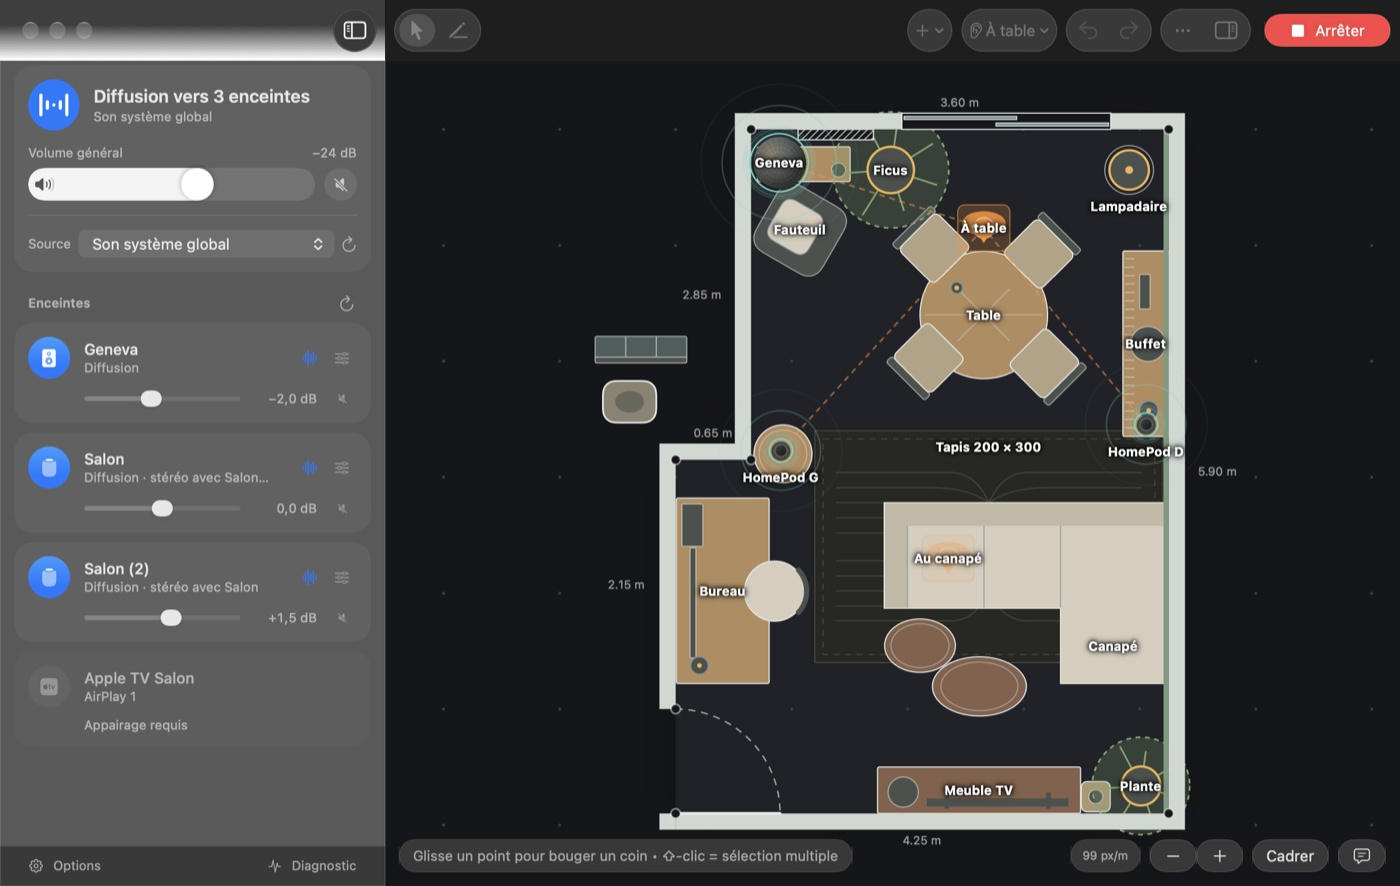
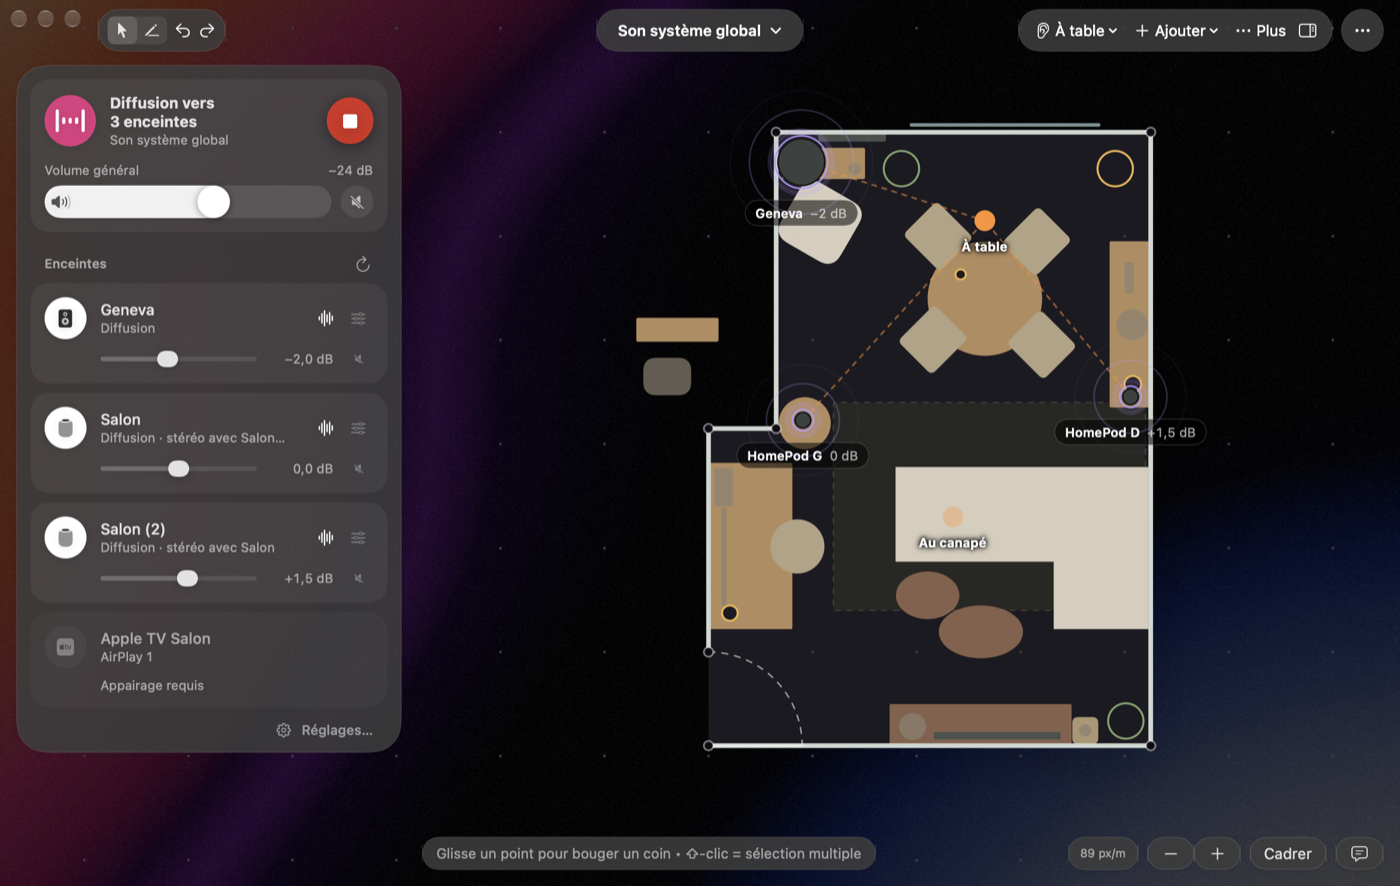
docs: record the textures, hiding and Settings window work
Close the textures session in the project memory: what the background,
the glass sphere, the hide command and the Settings window are, how each
was proven, and what nobody has seen yet. The installed app was streaming
when the work was merged, so nothing here is installed.

CLAUDE.md gains the durable facts: the background is animated by Core
Animation from precomputed keyframes, SwiftPM does not compile Metal
shaders on this machine, no Grainient image may enter the repository, the
sphere textures must be baked off the main thread, and the timed quit
tests still fail when the Mac is busy. The README describes the three
views and shows fresh renders.

diff --git a/PROGRESS.md b/PROGRESS.md
@@ -18,7 +18,7 @@ fin, donnent le niveau de preuve de chaque point. L'Apple TV n'a jamais joué en
 |---|---|
 | **Dernier jalon terminé** | **Jalon 5 — intégration et interface, clos le 2026-11-02 sur le vrai matériel** |
 | **Jalon en cours** | Suite du jalon 5, ouverte le 2026-11-09 (`docs/prompt_video_dia_airfoil.md`, `docs/prompt_retard_2s.md`) : calage vidéo, retard réduit à ~0,45 s, refonte Liquid Glass. **Pas encore close** |
-| **Étape suivante** | Avec Baptiste : juger la nouvelle fenêtre dans l'app ; endurance et clics à 0,4 s ; non-régression du calage vidéo (phase 1.5) ; points ouverts de la phase 3 ; puis clôture (phase 4) |
+| **Étape suivante** | Avec Baptiste : installer et juger les textures, le masquage et les Réglages (dernière section) ; juger la nouvelle fenêtre dans l'app ; endurance et clics à 0,4 s ; non-régression du calage vidéo (phase 1.5) ; points ouverts de la phase 3 ; puis clôture (phase 4) |
 | **Dépôt** | `github.com/Erkin0xx/AirplayPersonalBridge`, branche `main` |
 
 **L'app diffuse depuis la barre de menus vers N enceintes en parallèle**, ce qui est l'objectif
@@ -1282,3 +1282,40 @@ rendu plus lent encore : la mutation « relance bornée par la part des sorties 
 - **Phase 1.5** : non-régression aux clics, option vidéo active puis inactive. Safari, QuickTime et Firefox avec le pilote.
 - **Phase 3** : paire cochée en décalé et ouverte d'un geste, à l'oreille ; basses et aigus, volumes séparés de la paire, touches du
   Mac en vraie diffusion, icône animée, ligne d'application attendue, à l'écran ; pannes provoquées ; tour de l'app ; canapé.
+
+### Après la clôture : textures, masquage, fenêtre Réglages (2026-11-10, soir)
+
+Demande de Baptiste (`docs/prompt_textures_grainient.md`) : le fond dans le style *shadeshifter-05* de Grainient, la sphère
+et l'anneau du volume dans celui de *Nova*, un bouton pour masquer une enceinte ou un élément, réactivable depuis une page
+de réglages. Mené par quatre sous-agents (recherche, fond, sphère, masquage) et un cinquième pour des maquettes. Niveaux de
+preuve : **test**, **rendu** (hors écran, regardé par la session), **mesuré**, **vu** (Baptiste, dans l'app).
+
+**Rien de ce qui suit n'a été vu par Baptiste, et l'app installée ne l'a pas** : elle diffusait au moment d'installer
+(quatre sockets UDP ouverts), et une installation coupe le son. À installer par `scripts/install-app.sh --open`, diffusion
+arrêtée.
+
+| Ce qui est fait | Preuve |
+|---|---|
+| **Recherche** : aucune des trois références n'a de grain visible (résidu 0,2 à 0,8/255) ; palettes échantillonnées ; licence de Grainient relevée (usage personnel permis, redistribution interdite, images très probablement payantes) | lecture des pages et des images, 2026-11-10. **Aucune image de Grainient dans le dépôt** : tout est reproduit par le code |
+| **Fond** (`GrainientBackground`) : rampe en bandes obliques dans la palette de l'app, nappe bleue en bas à droite, grain fin fixe ; cycle de 54 s ; plus sombre et immobile au repos ; arrêté fenêtre à l'arrière-plan ou sous « Réduire les animations » | test (20 tests : couture du cycle, contraste du texte blanc ≥ 4,5, pause et reprise ; 5 mutations tuées), rendu. **Le mouvement n'a été vu par personne** |
+| **Coût du fond** : animation confiée à Core Animation (36 images-clés de 160×100, fondu sur `contents`), l'app ne se réveille pas | **mesuré**, process seul, fenêtre non composée (écran verrouillé) : 0,248 % contre 0,249 % pour une fenêtre vide, et 109 % pour l'ancien `Canvas` à 20 images/s. **Le serveur de fenêtres n'est pas mesuré**, ni le coût fenêtre visible |
+| **Sphère et anneau** (`NovaGlass`) : bille de verre presque noir aux reflets roses et bleus, filets fins, éclat orange ; grise et immobile au repos ; anneau en tube blanc bleuté sur piste sombre, prise en perle, sans rose | test (14 tests : couture, bornes, contraste du logo ≥ 4,5 sur tout le cycle ; 4 mutations tuées), rendu (gros plans, 8 instants du cycle). Mouvement, survol et saisie **non vus** ; coût dans une vraie fenêtre **non mesurable** ici (la sonde tourne à 100 % d'un cœur avec l'ancienne sphère comme avec la nouvelle) |
+| **Cuisson des textures hors du fil principal** : cuites au premier dessin, elles figeaient la fenêtre (1 s en debug) et le MainActor des tests | **mesuré** : 0,995 s de cuisson en debug ; trouvé à la fusion, la suite passant de verte à 2 échecs sur 5 |
+| **Masquer** (`HiddenElements`) : clic droit ou œil barré au survol sur chaque enceinte des trois vues ; l'enceinte disparaît aussi du panneau ; purement visuel, elle continue de jouer ; la paire stéréo se masque d'un bloc ; ligne « 1 enceinte masquée » qui ouvre les Réglages ; trois blocs masquables (ondes du Halo, volume général, lieu d'écoute de la Console) ; persisté dans `settings.json` | test (24 tests, 5 mutations tuées), rendu. **Survol et clic droit jamais essayés** |
+| **Fenêtre Réglages** (scène `Settings`, ⌘,) : vue de la fenêtre, enceintes affichées, éléments affichés ; ouverte depuis le bouton « … », le panneau des enceintes du Plan et le panneau de la barre de menus | `xcodebuild` Debug réussi, rendu de la vue seule. **Jamais ouverte pour de vrai** : le cas à essayer d'abord est le panneau, fenêtre principale fermée |
+| **Maquettes de curseurs** pour la Console (demande § 3.D) : trois variantes (verre Nova, Darkshells, grain), layout intact, sur `claude.ai/artifact/EYxdPQYm3Xe4Vvte1zoqMD` | publiées, **rendu vu par personne** ; rien n'en est codé, en attente du choix de Baptiste |
+
+Choix tranchés : palette de l'app plutôt que le rouge et pêche de la référence (elle jurerait avec la sphère rose) ; fond
+assombri à 0,39 pour le texte blanc ; pas de shader (ADR 016) ; masquer ne décoche pas ; le bouton de silence reste même
+volume général masqué ; les avertissements couvrent aussi les enceintes masquées ; les options du Mac restent dans « … » ;
+« Plan et réglages… » du panneau devient « Ouvrir la fenêtre… ».
+
+**Tests** : 1 114 tests. Suite verte 3 passages sur 5 le soir du 2026-11-10, **Mac chargé** (Dia à 87 % d'un cœur, charge
+moyenne 7) : les échecs sont les tests chronométrés de la fermeture, et le commit de départ `2fca624`, lancé en alternance
+dans un worktree, échoue autant (2 sur 5). À relancer au calme.
+
+**Reste ouvert** : installer et juger dans l'app (mouvement du fond et de la sphère, verre, lisibilité, survol, clic droit,
+ouverture des Réglages) ; mesurer le CPU fenêtre visible (Moniteur d'activité, app et WindowServer) ; choisir une variante
+de curseurs ; deux défauts mineurs vus aux rendus (l'œil frôle un nom long dans la tuile Console, la légende « stéréo
+avec… » se tronque au survol dans la carte du Plan).
+

diff --git a/CLAUDE.md b/CLAUDE.md
@@ -771,12 +771,42 @@ Relevés du 2026-11-03, implémentés et mesurés les 2026-11-09 et 10 : ADR `01
 ## Widget et app
 
 - **Barre de menus, pas WidgetKit** : la capture doit tourner dans un processus vivant. Voir l'ADR `005`.
-- **Fenêtre au style Liquid Glass** (2026-11-10) : `NavigationSplitView`, barre latérale `BridgeSidebar` en verre, plan prolongé
-  sous elle (`backgroundExtensionEffect`), inspecteur natif (`.inspector`, `PlanInspector`), Diffuser/Arrêter en
-  `.glassProminent`, diagnostic en `Form`. Le thème shadcn (`DesignSystem.swift`) et `RotaryKnob` sont retirés : couleurs, typos
-  et contrôles du système. Rendu : `WINDOW_PNG_DIR=<dossier> swift test --filter MainWindowExport`, verres de l'app et du système
-  remplacés par un aplat (`windowSimulatesGlass`, `WindowSnapshot`).
-- **Barre latérale en cartes** (seconde passe, même jour) : une carte d'en-tête puis une `SpeakerCard` par enceinte, sur un voile
+- **Fenêtre à trois vues** (2026-11-10, `WindowLayout` : `halo` par défaut, `console`, `plan`), sans barre d'outils ni barre
+  latérale (scène en `hiddenTitleBar`) : tout flotte en verre sur le fond, source en pastille (`SourcePill`) en haut au centre,
+  options (`WindowOptionsButton`) en haut à droite, marges dans `WindowChromeMetrics`. Rendus :
+  `WINDOW_PNG_DIR=<dossier> swift test --filter HaloViewExport` (ou `ConsoleViewExport`, `MainWindowExport`), verres remplacés
+  par un aplat (`windowSimulatesGlass`, `WindowSnapshot`). **Pas de rose sur une commande** : curseurs, anneau, boutons
+  enclenchés en blanc ; le rose va à la sphère, à la pastille d'état et au fond.
+- **Le fond se dessine à un seul endroit**, `Views/GrainientBackground.swift` (style *shadeshifter-05* de Grainient dans la
+  palette de l'app : rampe en bandes obliques, nappe bleue en bas à droite, assombrie à 0,39 en diffusion et 0,085 au repos,
+  grain fixe de 256 px). **Animé par Core Animation, pas par SwiftUI** : 36 images-clés de 160×100 calculées une fois par
+  proportions de fenêtre, hors du MainActor, enchaînées par une `CAKeyframeAnimation` sur `contents` (cycle de 54 s). L'app ne
+  se réveille pas pendant le mouvement. Mesuré par `BACKGROUND_CPU_PROBE=30 swift test -c release --filter
+  GrainientBackgroundCPUProbe` : le CPU du process égale celui d'une fenêtre vide, là où l'ancien `Canvas` à 20 images/s en
+  prenait 109 % (fenêtre non composée, écran verrouillé : le serveur de fenêtres n'est pas mesuré). Une image fixe de la même
+  recette vit sous le calque : c'est elle que montrent le repos, « Réduire les animations » et les rendus hors écran.
+- **Pas de shader SwiftUI** : `swift build` copie un `.metal` sans le compiler, et le Metal Toolchain n'est pas installé
+  (`xcrun metal` échoue). `MTLDevice.makeLibrary(source:)` compilerait du MSL à l'exécution, si un jour il en faut un.
+- **Aucune image de Grainient dans le dépôt** : sa licence (`grainient.supply/license-agreement`, 2024-08-20) permet l'usage
+  personnel mais interdit de redistribuer les fichiers, et le dépôt est sur GitHub. Les trois références (*shadeshifter-05*,
+  *Nova*, *Darkshells*) sont reproduites par le code. Aucune n'a de grain visible : celui de l'app est un ajout.
+- **Sphère et anneau du Halo en verre Nova** (`Views/NovaGlass.swift`) : cinq textures `CGImage` cuites une fois (près de deux
+  millions de points), dessinées en `.plusLighter`, qui pivotent et glissent sur 50 s à 20 images/s. **La cuisson se fait hors du
+  fil principal** (`NovaGlassTextures.baked()`), la bille restant sombre et nue en attendant : cuites au premier dessin, elles
+  figeaient la fenêtre 1 s en debug et faisaient dépasser leurs plafonds aux tests de la fermeture. Un rendu hors écran appelle
+  `NovaGlassTextures.bakedNow()` avant de rendre. Le contraste du logo blanc reste ≥ 4,5:1 sur tout le cycle (test). Planches :
+  `SPHERE_PNG_DIR=<dossier> swift test --filter HaloSphereExport`.
+- **Masquer est visuel** (`HiddenElements`, `BridgeState+Visibility`) : une enceinte masquée et cochée continue de jouer, et
+  disparaît des trois vues et du panneau. Le geste vaut pour toute la paire stéréo. Trois blocs masquables (`WindowBlock`) :
+  ondes du Halo, volume général, lieu d'écoute de la Console ; jamais l'état, les avertissements, la source, Diffuser ni le
+  silence. Persisté dans `settings.json` (`hiddenElements`), identifiants orphelins gardés. Les vues lisent `visibleOutputs`,
+  jamais `outputs`, pour leurs listes.
+- **Fenêtre Réglages** (scène `Settings`, ⌘,) : la scène est dans `AirplayPersonalBridgeApp.swift`, la vue dans
+  `Views/SettingsView.swift`. Ouverte depuis le panneau, elle passe par `AppLifecycle.showSettingsWindow` : icône du Dock et
+  activation **avant** l'ouverture, sinon elle s'ouvre derrière. L'icône du Dock dure tant que l'une des deux fenêtres est
+  ouverte (`DockIconController.Window`). **Jamais ouverte pour de vrai par un agent** : à essayer d'abord depuis le panneau,
+  fenêtre principale fermée.
+- **Panneau des enceintes de la vue Plan, en cartes** (`BridgeSidebar`, flottant à gauche) : une carte d'en-tête puis une `SpeakerCard` par enceinte, sur un voile
   (`windowCard`), jamais un second verre. Ce qui se règle une fois est en fenêtre surgissante : `SpeakerSettings` (délai, tonalité,
   gain, adresse) et `MacOptions`. Un rendu hors écran n'ouvre pas de popover : l'export les rend seuls
   (`reglages-enceinte-*`, `options-mac-*`). `OutputRow` n'existe plus.
@@ -854,7 +884,9 @@ scripts/install-app.sh --open  # compile en Release, signe, remplace l'app dans 
 - **Aucun plafond de temps serré sur ce qui reprend sur le MainActor** : toutes les suites de `BridgeAppTests` le partagent, et au
   départ d'une suite complète une reprise y attend jusqu'à ~2 s. Trois tests de la fermeture échouaient ainsi 3 fois sur 3, verts
   isolément. Plafond de quelques secondes (`QuitSequenceTests.mainActorSlack`), et le comportement fautif rendu bien plus lent
-  (part de 10 s, fils qui dort 10 s) pour qu'une mutation se voie encore.
+  (part de 10 s, fils qui dort 10 s) pour qu'une mutation se voie encore. **Ces plafonds cèdent encore quand le Mac est chargé**
+  (2026-11-10, Dia à 87 % d'un cœur, charge 7 : 2 passages sur 5 en échec, sur le commit de départ comme après) : relancer au
+  calme avant d'accuser le code, et comparer au commit précédent dans un worktree.
 - **Un socket lié qui n'écoute pas ne simule pas un port fermé** : le noyau ignore le SYN au lieu de le refuser, et la connexion
   reste en préparation sans fin.
 - **Les annonces Bonjour des tests restent sur l'interface locale, sous un type privé** (`_apbtest._tcp`) : la suite ne fait

diff --git a/README.md b/README.md
@@ -15,11 +15,19 @@ enceinte, et ça joue dessus. Les vidéos lues sur le Mac restent calées sur le
 </p>
 
 <p align="center">
-  <img src="docs/screenshots/fenetre-diffusion-sombre.png" alt="Fenêtre principale : enceintes dans la barre latérale, plan du salon à l'échelle">
+  <img src="docs/screenshots/halo-diffusion.png" alt="Vue Halo pendant une diffusion : sphère de verre, anneau du volume, enceintes en pastilles">
 </p>
 
 <p align="center">
-  <img src="docs/screenshots/fenetre-inspecteur-clair.png" alt="Fenêtre principale en clair, inspecteur ouvert sur la Geneva">
+  <img src="docs/screenshots/console-diffusion.png" alt="Vue Console : une tuile et un curseur vertical par enceinte, barre de lecture dessous">
+</p>
+
+<p align="center">
+  <img src="docs/screenshots/fenetre-diffusion-sombre.png" alt="Vue Plan : le plan du salon à l'échelle, le panneau des enceintes flottant à gauche">
+</p>
+
+<p align="center">
+  <img src="docs/screenshots/reglages-fenetre-sombre.png" width="420" alt="Fenêtre Réglages : vue de la fenêtre, enceintes affichées, éléments affichés">
 </p>
 
 *Rendus hors écran tirés du code, avec des données d'exemple (voir « Développement »). Le verre Liquid Glass ne
@@ -110,17 +118,26 @@ Dans la barre de menus :
   « Caler l'image des vidéos », démarrage à l'ouverture de session. Elles s'ouvrent dans une carte par-dessus le
   panneau, qui garde sa taille.
 
-« Ouvrir la fenêtre… » ouvre la fenêtre, au style Liquid Glass de macOS 26 :
+« Ouvrir la fenêtre… » ouvre la fenêtre, sombre, sans barre d'outils : tout flotte en verre sur un fond en dégradé
+granuleux qui ondule lentement pendant une diffusion, et s'éteint au repos. La source est une pastille en haut au
+centre, les options un bouton « … » en haut à droite. Trois vues, au choix dans les options ou les Réglages :
 
-- une barre latérale en verre : une carte pour ce qui joue (état, volume général, source), puis une carte par enceinte
-  (la pastille qui la coche, son état, son volume, son silence) ;
-- le délai, la tonalité et l'adresse d'une enceinte dans une fenêtre surgissante de sa carte, les options du Mac dans
-  une autre, au pied de la barre ;
-- le plan de la pièce à l'échelle, en pleine fenêtre : le sol posé sur un fond doux, un point par mètre, et une onde
-  autour des enceintes qu'on entend ;
-- une barre d'outils native avec le bouton Diffuser/Arrêter (⌘↩) ;
-- l'inspecteur de macOS pour l'objet sélectionné ;
-- le diagnostic.
+- **Halo** (par défaut) : une sphère de verre au centre, qui est le bouton Diffuser/Arrêter (⌘↩) et s'anime quand le
+  son passe ; le volume général en anneau autour ; les enceintes en pastilles dessous ;
+- **Console** : une tuile et un curseur vertical par enceinte, et une barre de lecture (état, volume général,
+  silence, Diffuser/Arrêter) ;
+- **Plan** : le plan de la pièce à l'échelle en plein cadre, le panneau des enceintes flottant à gauche, l'inspecteur
+  de l'objet sélectionné à droite.
+
+Le délai, la tonalité et l'adresse d'une enceinte se règlent dans une fenêtre surgissante, et le diagnostic s'ouvre
+depuis les options.
+
+**Masquer** : un clic droit sur une enceinte, ou l'œil barré qui apparaît au survol, la retire des trois vues et du
+panneau de la barre de menus (une Apple TV qui ne joue pas, par exemple). C'est seulement visuel : cochée, elle
+continue de jouer. Une paire stéréo se masque d'un bloc. Une ligne « 1 enceinte masquée » le rappelle.
+
+**Réglages** (⌘,) : le choix de la vue, un interrupteur par enceinte connue pour la réafficher, et trois éléments
+masquables (les ondes de la vue Halo, le volume général, le lieu d'écoute de la Console).
 
 L'app reste active fenêtre fermée et quitte alors le Dock.
 

diff --git a/.claude/CLAUDE.md b/.claude/CLAUDE.md
@@ -28,6 +28,6 @@ d'un jalon à l'autre imposée par le CDC section 14 :
   « validé contre mock » vs « validé contre matériel réel ».
 - **`CLAUDE.md` racine** : invariants et faits techniques vérifiés sur cette machine.
 - **Vault `decisions/`** : le *pourquoi* d'un choix d'architecture arbitré, au format ADR
-  (gabarit dans `Conventions/ADR Template.md`). Numérotation continue — 001 à 015 existent
-  déjà, la prochaine décision est donc 016.
+  (gabarit dans `Conventions/ADR Template.md`). Numérotation continue — 001 à 016 existent
+  déjà, la prochaine décision est donc 017.
 - **Vault `notes.md`** : les corrections de raisonnement, y compris les miennes.
